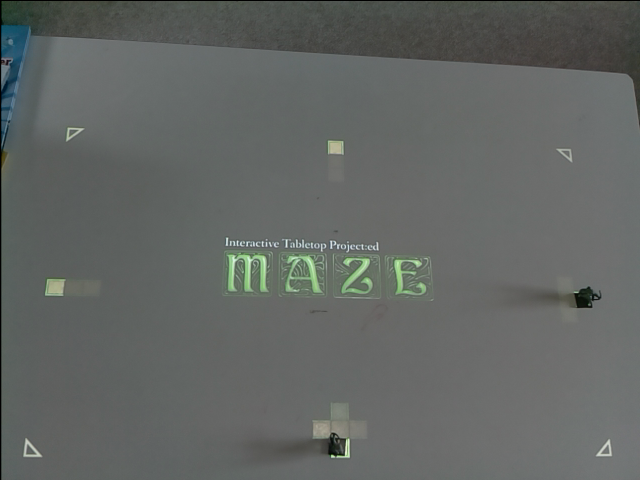
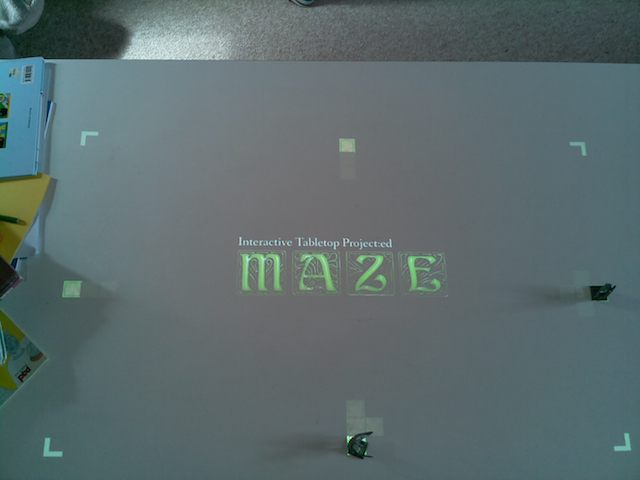
More attempts at more stable corner marker

diff --git a/Server/src/board/markers/triangle_marker.py b/Server/src/board/markers/triangle_marker.py
@@ -28,10 +28,15 @@ class TriangleMarker(object):
         for contour in contours:
 
             # Approx contour
-            approxed_contour = cv2.approxPolyDP(contour, cv2.arcLength(contour, True) * 0.04, True)
+            approxed_contour = cv2.approxPolyDP(contour, cv2.arcLength(contour, True) * 0.03, True)
 
             # Add to list
             approxed_contours.append(approxed_contour)
+
+        #image2 = cv2.cvtColor(image.copy(), cv2.COLOR_GRAY2BGR)
+        #cv2.drawContours(image2, approxed_contours, 0, (255, 0, 255), 1)
+        #cv2.imshow('Contours', image2)
+        #cv2.waitKey(0)
 
         # Find marker
         for i in range(0, len(approxed_contours)):
@@ -86,15 +91,20 @@ class TriangleMarker(object):
             #print("Convex hull area too small: %f vs %f" % (area, convex_hull_area))
             return False
 
-        # Check line lengths
+        # Get min and max line lengths
         min_length_index = np.argmin(np.array([self.line_length(approxed_contour, i) for i in range(0, len(approxed_contour))]))
+        max_length_index = np.argmax(np.array([self.line_length(approxed_contour, i) for i in range(0, len(approxed_contour))]))
 
-        if not self.are_lines_approx_same_length(approxed_contour, min_length_index, min_length_index + 3):
-            #print("Small edges not same length")
+        # Small edges are at max half the length of the longest edges
+        if self.line_length(approxed_contour, min_length_index) > self.line_length(approxed_contour, max_length_index) * 0.6:
+            #print("Small edges too long")
             return False
+
+        # Check that the long edges are approx same length
         if not self.are_lines_approx_same_length(approxed_contour, min_length_index + 1, min_length_index + 2):
             #print("Long edges 1 not same length")
             return False
+
         if not self.are_lines_approx_same_length(approxed_contour, min_length_index - 1, min_length_index - 2):
             #print("Long edges 2 not same length")
             return False
@@ -104,8 +114,8 @@ class TriangleMarker(object):
             cosine = abs(misc_math.angle(approxed_contour[i % len(approxed_contour)][0],
                                          approxed_contour[(i - 2) % len(approxed_contour)][0],
                                          approxed_contour[(i - 1) % len(approxed_contour)][0]))
-            if abs(math.cos(90 * math.pi / 180.0) - cosine) > 0.3:
-                #print("Angle: %i = %f" % (i, cosine))
+            if abs(math.cos(90 * math.pi / 180.0) - cosine) > math.cos(60 * math.pi / 180.0):
+                #print("Angle: %i = %f vs %f" % (i, cosine, math.cos(60 * math.pi / 180.0)))
                 return False
 
         #print("OK!")

diff --git a/Server/src/board/test.py b/Server/src/board/test.py
@@ -165,7 +165,7 @@ def test():
     #cap = cv2.VideoCapture(0)
 
     while True:
-        image = cv2.imread("board/training/board6.png")
+        image = cv2.imread("board/training/board4.png")
         #_, image = cap.read()
 
         board_descriptor.snapshot = board_recognizer.find_board(image, board_descriptor)

diff --git a/Server/src/board/board_recognizer.py b/Server/src/board/board_recognizer.py
@@ -17,7 +17,7 @@ class BoardRecognizer(object):
     """
     Class capable of recognizing a game board.
     """
-    ThresholdModes = enum.Enum('OTSU', 'AUTO', 'ADAPTIVE')
+    ThresholdModes = enum.Enum('OTSU', 'AUTO', 'ADAPTIVE', 'BRIGHT_ROOM', 'DARK_ROOM')
 
     # Constants
     marker_search_width = 0
